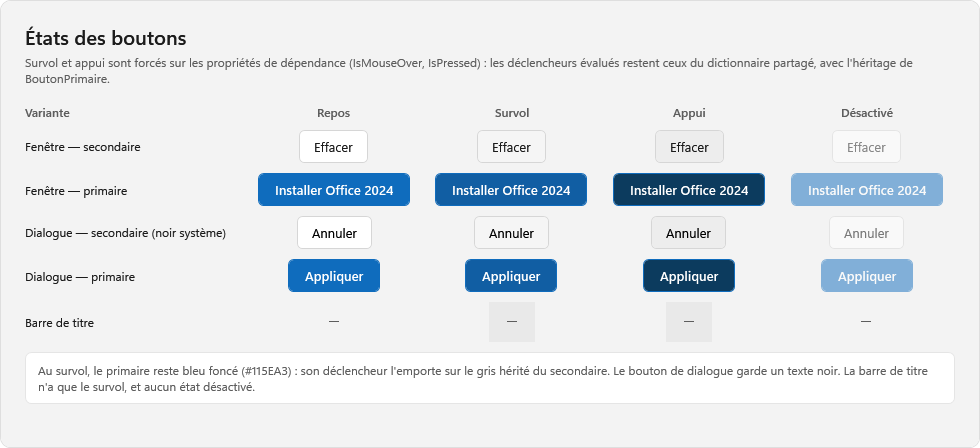
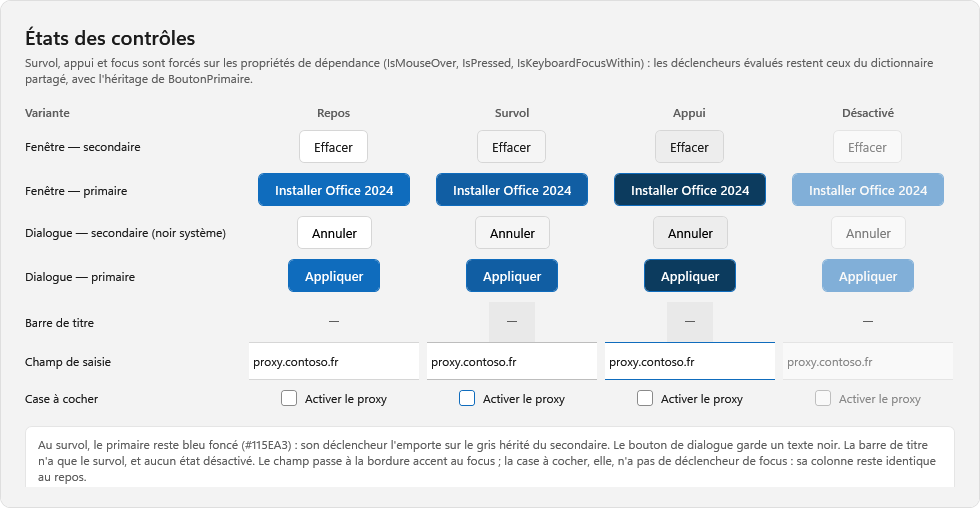
Etend la planche des etats aux champs et aux cases.
Le focus passe par IsKeyboardFocusWithinPropertyKey, resolu par le meme controle
de cle. Le champ montre bordure grise au survol et accent au focus ; la case n'a
pas de declencheur de focus, ce que la colonne rend visible. Les trois captures
au repos restent identiques au pixel.

diff --git a/Maquette/Etats.xaml b/Maquette/Etats.xaml
@@ -1,7 +1,7 @@
 <Window xmlns="http://schemas.microsoft.com/winfx/2006/xaml/presentation"
         xmlns:x="http://schemas.microsoft.com/winfx/2006/xaml"
-        Title="Etats des boutons"
-        Width="980" Height="448"
+        Title="Etats des controles"
+        Width="980" Height="508"
         WindowStyle="None" ResizeMode="NoResize"
         WindowStartupLocation="CenterScreen"
         Background="Transparent"
@@ -15,12 +15,12 @@
   <Border Background="{StaticResource Fond}" CornerRadius="10" BorderBrush="#DEDEDE"
           BorderThickness="1" Padding="24,22,24,20">
     <StackPanel>
-      <TextBlock Text="États des boutons" FontSize="20" FontWeight="SemiBold"
+      <TextBlock Text="États des contrôles" FontSize="20" FontWeight="SemiBold"
                  Foreground="{StaticResource Texte}"/>
       <TextBlock FontSize="12" Foreground="{StaticResource Texte2}" TextWrapping="Wrap"
-                 Margin="0,4,0,0">Survol et appui sont forcés sur les propriétés de dépendance
-        (IsMouseOver, IsPressed) : les déclencheurs évalués restent ceux du dictionnaire partagé,
-        avec l'héritage de BoutonPrimaire.</TextBlock>
+                 Margin="0,4,0,0">Survol, appui et focus sont forcés sur les propriétés de dépendance
+        (IsMouseOver, IsPressed, IsKeyboardFocusWithin) : les déclencheurs évalués restent ceux du
+        dictionnaire partagé, avec l'héritage de BoutonPrimaire.</TextBlock>
 
       <Grid Margin="0,18,0,0">
         <Grid.ColumnDefinitions>
@@ -31,6 +31,8 @@
           <ColumnDefinition Width="*"/>
         </Grid.ColumnDefinitions>
         <Grid.RowDefinitions>
+          <RowDefinition Height="Auto"/>
+          <RowDefinition Height="Auto"/>
           <RowDefinition Height="Auto"/>
           <RowDefinition Height="Auto"/>
           <RowDefinition Height="Auto"/>
@@ -124,6 +126,34 @@
                 Style="{StaticResource BoutonFenetre}" HorizontalAlignment="Center"/>
         <Button Grid.Row="5" Grid.Column="4" x:Name="Fen_Off" Content="&#xE921;"
                 Style="{StaticResource BoutonFenetre}" HorizontalAlignment="Center"/>
+
+        <!-- Champ de saisie : survol gris, focus accent -->
+        <TextBlock Grid.Row="6" Text="Champ de saisie" Style="{StaticResource Etiquette}"
+                   Margin="0,0,0,10"/>
+        <TextBox Grid.Row="6" Grid.Column="1" x:Name="Sai_Repos" Text="proxy.contoso.fr"
+                 Style="{StaticResource Champ}" Width="200" HorizontalAlignment="Center"
+                 Margin="4,0,4,10"/>
+        <TextBox Grid.Row="6" Grid.Column="2" x:Name="Sai_Survol" Text="proxy.contoso.fr"
+                 Style="{StaticResource Champ}" Width="200" HorizontalAlignment="Center"
+                 Margin="4,0,4,10"/>
+        <TextBox Grid.Row="6" Grid.Column="3" x:Name="Sai_Focus" Text="proxy.contoso.fr"
+                 Style="{StaticResource Champ}" Width="200" HorizontalAlignment="Center"
+                 Margin="4,0,4,10"/>
+        <TextBox Grid.Row="6" Grid.Column="4" x:Name="Sai_Off" Text="proxy.contoso.fr"
+                 Style="{StaticResource Champ}" Width="200" HorizontalAlignment="Center"
+                 Margin="4,0,4,10"/>
+
+        <!-- Case a cocher : survol accent, aucun declencheur de focus -->
+        <TextBlock Grid.Row="7" Text="Case à cocher" Style="{StaticResource Etiquette}"
+                   Margin="0,0,0,10"/>
+        <CheckBox Grid.Row="7" Grid.Column="1" x:Name="Chk_Repos" Content="Activer le proxy"
+                  Style="{StaticResource Case}" HorizontalAlignment="Center" Margin="4,0,4,10"/>
+        <CheckBox Grid.Row="7" Grid.Column="2" x:Name="Chk_Survol" Content="Activer le proxy"
+                  Style="{StaticResource Case}" HorizontalAlignment="Center" Margin="4,0,4,10"/>
+        <CheckBox Grid.Row="7" Grid.Column="3" x:Name="Chk_Focus" Content="Activer le proxy"
+                  Style="{StaticResource Case}" HorizontalAlignment="Center" Margin="4,0,4,10"/>
+        <CheckBox Grid.Row="7" Grid.Column="4" x:Name="Chk_Off" Content="Activer le proxy"
+                  Style="{StaticResource Case}" HorizontalAlignment="Center" Margin="4,0,4,10"/>
       </Grid>
 
       <Border Background="#FFFFFF" BorderBrush="{StaticResource Brd}" BorderThickness="1"
@@ -131,7 +161,8 @@
         <TextBlock FontSize="12" Foreground="{StaticResource Texte2}" TextWrapping="Wrap">Au survol,
           le primaire reste bleu foncé (#115EA3) : son déclencheur l'emporte sur le gris hérité du
           secondaire. Le bouton de dialogue garde un texte noir. La barre de titre n'a que le survol,
-          et aucun état désactivé.</TextBlock>
+          et aucun état désactivé. Le champ passe à la bordure accent au focus ; la case à cocher, elle,
+          n'a pas de déclencheur de focus : sa colonne reste identique au repos.</TextBlock>
       </Border>
     </StackPanel>
   </Border>
